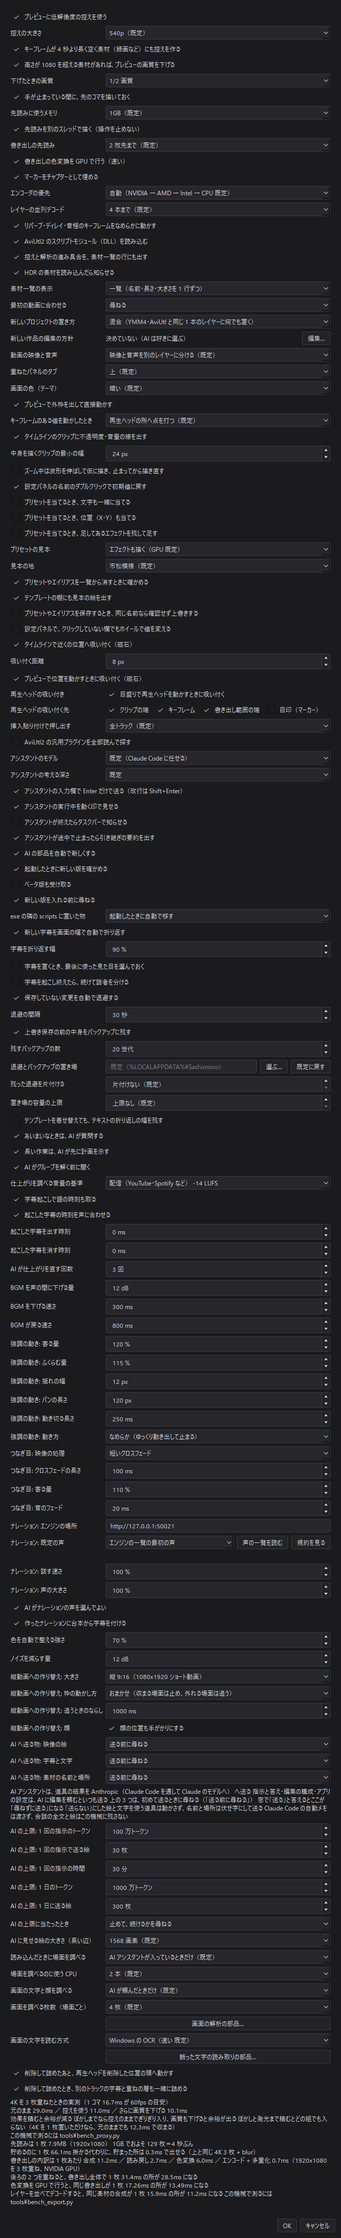
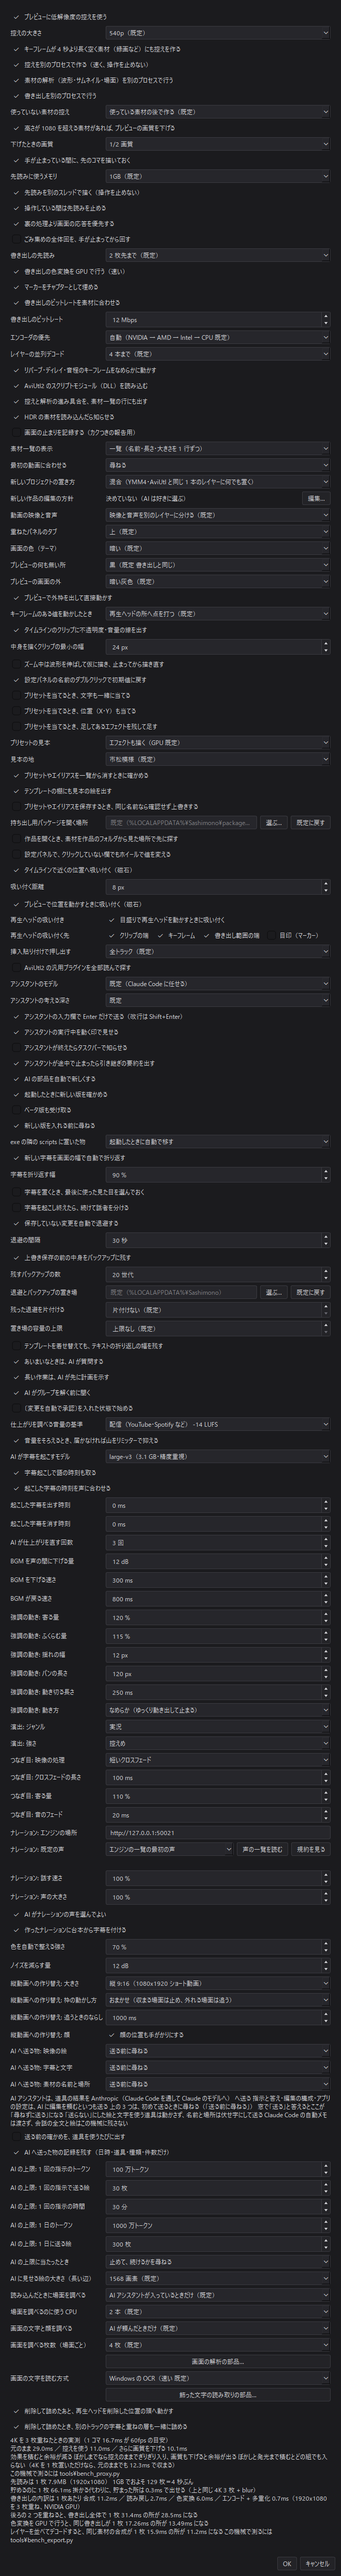
0.2.5 を出すために版の数字を上げ、README と Wiki 用の写真を今の機能に合わせる
- __version__ を 0.2.5 に 報告の欄の版の例と、コード署名の方針の署名していない版も 0.2.5 までに
- README に持ち出し用パッケージの節と、AI に演出を任せる節を足す 現状の一覧と人が確かめることを今に合わせる
- AI の操作の数を 153 種類（読み取り 57 / 変更 96）に数え直す
- 設定の写真を撮り直し、Wiki 用に演出の計画の欄の写真を撮れるようにする

diff --git a/tools/shots.py b/tools/shots.py
@@ -1967,6 +1967,91 @@ def wiki_ai_question(context: Context) -> QImage:
         return image.copy(rect_in(window, chat))
 
 
+#: 演出の計画の写真に見せる会話 **本物の Claude には送らない**（``SAMPLE_CHAT`` と同じ）
+SAMPLE_DIRECTION_CHAT: tuple[tuple[str | None, str], ...] = (
+    ("あなた", "盛り上がる所に演出を付けて"),
+    (None, "▸ get_direction_recipes"),
+    (None, "▸ find_highlights"),
+    (None, "▸ propose_direction"),
+    (
+        "Claude",
+        "笑い声と大きな声の所に、寄って戻す 2 か所と揺らす 1 か所を計画の欄に出しました"
+        " まだ何も付けていません 要らない項目の印を外して〔付ける〕を押してください"
+        " 効果音は音の素材が無いので入れていません",
+    ),
+)
+
+#: 見本の計画の項目（レシピの名前, 頭の秒） 見本の素材は 8 秒しか無く、レシピの 1 分あたりの
+#: 上限で選ぶと 1 つも入らない 選び方（plan_direction）だけを飛ばし、付ける先を決める所
+#: （build_items）と欄は本物を通す
+SAMPLE_DIRECTION_CUES: tuple[tuple[str, float], ...] = (
+    ("laugh_zoom", 1.5),
+    ("loud_shake", 3.5),
+    ("laugh_sound", 4.0),
+    ("laugh_zoom", 6.0),
+)
+
+
+def show_sample_direction(window: MainWindow) -> None:
+    """見本の演出の計画を作品へ出し、2 つ目の項目の印を外した所にする"""
+    from sashimono.ai.direction_plan import build_items, proposal_for
+    from sashimono.core.direction_recipes import (
+        STRENGTHS,
+        SUBTLE,
+        DirectionTaste,
+        PlannedDirection,
+        recipe_book,
+    )
+    from sashimono.ui.workspace import Preferences
+
+    taste = DirectionTaste(genre=Preferences().direction_genre, strength=SUBTLE)
+    rules = {rule.recipe.key: rule for rule in recipe_book(taste).rules}
+    planned = [
+        PlannedDirection(
+            recipe=key,
+            action=rules[key].recipe.action,
+            kind=rules[key].recipe.kind,
+            start=start,
+            end=start + rules[key].recipe.seconds,
+            amount=rules[key].amount,
+            reason=rules[key].recipe.reason,
+        )
+        for key, start in SAMPLE_DIRECTION_CUES
+    ]
+    project = window.project
+    items, dropped = build_items(
+        project, planned, [None] * len(planned), None, project.timeline.duration
+    )
+    if len(items) < 2:
+        raise ShotError("見本の演出の計画に項目が入らない")
+    proposal = proposal_for(window.document)
+    proposal.propose(items, dropped, STRENGTHS[SUBTLE])
+    # 外す操作を見せる 全部に印が付いたままだと、外せる欄だと伝わらない
+    proposal.exclude(items[1].number, True)
+
+
+def wiki_ai_direction(context: Context) -> QImage:
+    """AI アシスタントの演出の計画の欄 **本物のセッションは走らせない**"""
+    from sashimono.ui.chat import ChatPanel
+
+    with editor(sample_project()) as window:
+        import_sample(window, context)
+        window.seek(40)
+        window.show_chat()
+        panel = window.findChild(ChatPanel)
+        if panel is None:
+            raise ShotError("AI パネルが無い")
+        _fake_conversation(panel, SAMPLE_DIRECTION_CHAT)
+        show_sample_direction(window)
+        panel._refresh_plan()
+        _make_room_above_timeline(window)
+        chat = window.findChild(QDockWidget, "chat")
+        if chat is None:
+            raise ShotError("AI アシスタントのパネルが無い")
+        image = take_editor_shot(window)
+        return image.copy(rect_in(window, chat))
+
+
 SHOTS: tuple[Shot, ...] = (
     Shot("screenshot", "README の先頭（編集画面）", shot_editor),
     Shot("subtitle", "字幕パネル", shot_subtitle),
@@ -2087,6 +2172,7 @@ SHOTS: tuple[Shot, ...] = (
     ),
     Shot("edit-snap", "Wiki 基本の編集: 磁石と再生ヘッドの吸い付き", wiki_edit_snap, wiki=True),
     Shot("ai-question", "Wiki AI アシスタント: 質問の箱", wiki_ai_question, wiki=True),
+    Shot("ai-direction", "Wiki AI アシスタント: 演出の計画の欄", wiki_ai_direction, wiki=True),
 )
 
 

diff --git a/src/sashimono/__init__.py b/src/sashimono/__init__.py
@@ -2,7 +2,7 @@
 
 import os as _os
 
-__version__ = "0.2.4"
+__version__ = "0.2.5"
 
 #: numpy の行列計算（OpenBLAS）が使うスレッドの数の上限（#454）
 #:

diff --git a/docs/code-signing-policy.md b/docs/code-signing-policy.md
@@ -10,7 +10,7 @@ Planned: free code signing provided by [SignPath.io](https://about.signpath.io/)
 
 > Status: the SignPath Foundation did not approve the first application (October 2026) because the
 > project is not yet widely known. We plan to apply again once it has gained broader recognition.
-> Releases up to and including 0.2.4 are **not** signed.
+> Releases up to and including 0.2.5 are **not** signed.
 > This page will be updated when signed releases begin.
 
 ### What is signed
@@ -97,7 +97,7 @@ Planned: free code signing provided by [SignPath.io](https://about.signpath.io/)
 （予定 SignPath.io の無料のコード署名を使い、証明書は SignPath Foundation が持つ）
 
 > 最初の申し込み（2026 年 10 月）は、まだ広く知られていないという理由で SignPath Foundation に通らなかった
-> 知られるようになったら申し込み直す 0.2.4 までの版は署名していない
+> 知られるようになったら申し込み直す 0.2.5 までの版は署名していない
 > 署名した版を出し始めたら、このページを直す
 
 ### 署名する物
